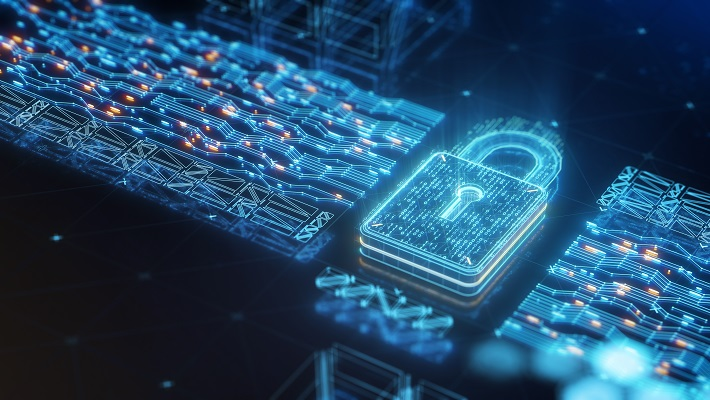
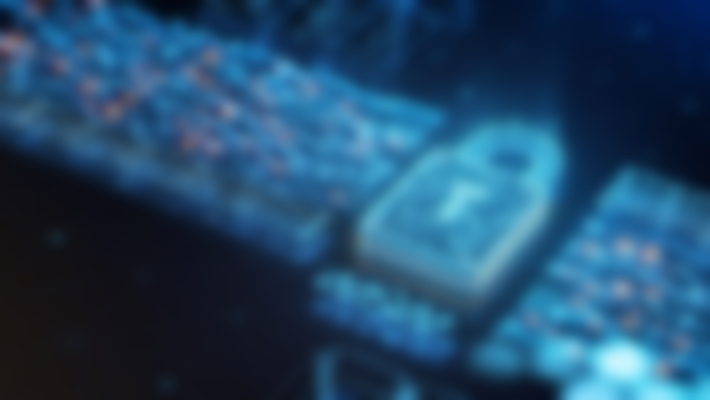
webcombine

diff --git a/ui/slideshow.html b/ui/slideshow.html
@@ -5,7 +5,10 @@
 <style>
 * {box-sizing: border-box}
 body {font-family: Verdana, sans-serif; margin:0}
-.mySlides {display: none}
+.mySlides {
+  display: none;
+  filter: blur(8px);
+}
 img {vertical-align: middle;}
 
 /* Slideshow container */
@@ -101,7 +104,7 @@ img {vertical-align: middle;}
 
 <div class="mySlides fade">
   <div class="numbertext">1 / 3</div>
-  <img src="img/pcimg.jpg" style="width:100%" height="400">
+  <img src="img/pcimg.jpg" style="width:100%" height="400" filter="blur(8px)" webkit-filter="blur(8px)">
   <div class="text"></div>
 </div>
 

diff --git a/main.html b/main.html
@@ -1,4 +1,16 @@
 <html>
+    <head>
+    <style>
+        .mySlides {
+            display: none;
+            filter:blur(8px);
+        }
+    </style>
+
+    </head>
+
+
+
     <body style="margin:0;">
         <iframe src="ui/navbar.html" frameborder ="0" style="width:100%;height:90px;"></iframe>
         <iframe src="ui/slideshow.html" frameborder="0" style="width:100%;height:450px;"></iframe>
